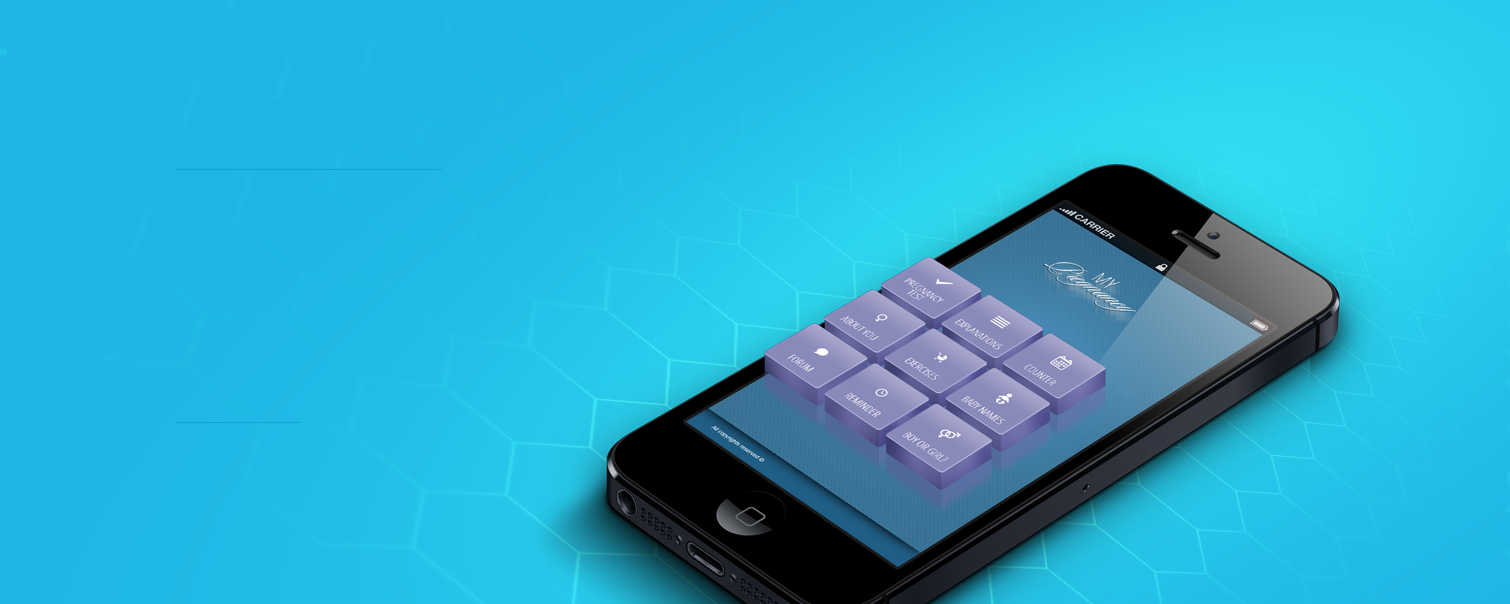
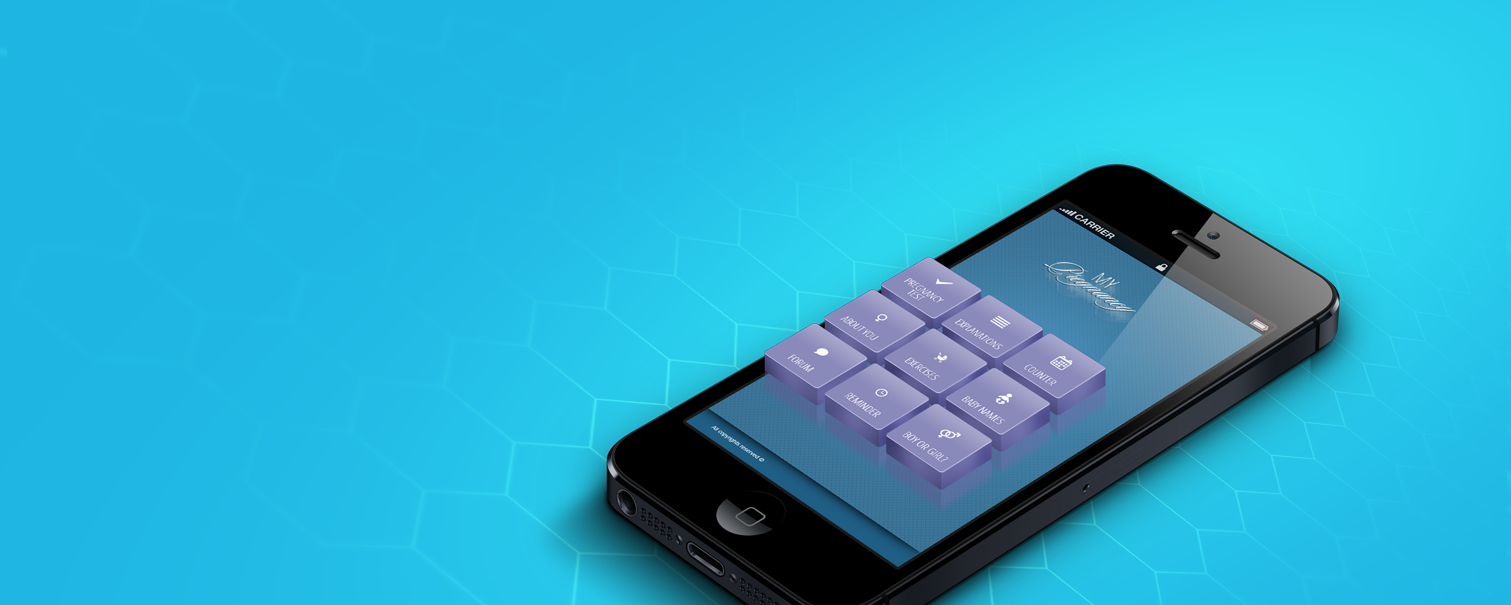
details

diff --git a/index.html b/index.html
@@ -18,12 +18,12 @@
         <nav>
             <div class="nav">
                 <div class="row">
-                    <div class="col-sm-2 col-md-3">
+                    <div class="col-sm-2 col-md-3 adjust">
                     	<div class="logo">
                         	<a href="#"><span>NET</span>VARIANT</a>
                         </div>
                     </div>
-                    <div class="col-sm-7 col-md-6 end-md">
+                    <div class="col-sm-7 col-md-6 end-md adjust">
                         <ul class="nav__item nav__item--text">
                             <li><a href="#">about us</a></li>
                             <li><a href="#">careers</a></li>
@@ -32,7 +32,7 @@
                             <li><a href="#">contact us</a></li>
                         </ul>
                     </div>
-                    <div class="col-sm-3 col-md-3 end-md">
+                    <div class="col-sm-3 col-md-3 end-md adjust">
                         <ul class="nav__item nav__item--icon">
                             <li><a href="#"><i class="icon-user icon"></i></a></li>
                             <li><a href="#"><i class="icon-earth icon"></i></a></li>
@@ -58,7 +58,7 @@
             <div class="container">
                 <div class="row">
                     <div class="col-md-12 slider--descrip">
-                        <h1>Lorem ipsum dolor sit amet, consectetur adipiscing elit.</h1>
+                        <h1>Lorem ipsum dolor sit<br>amet, consectetur<br> adipiscing elit.</h1>
                     </div>
                 </div>
             </div>
@@ -85,17 +85,17 @@
     <section class="service gray">
         <div class="container">
             <div class="row">
-                <div class="col-md-12 service__header">
+                <div class="col-sm-12 col-md-12 service__header">
                     <p>netvariant</p>
                     <h2>Our services</h2>
                 </div>
-                <div class="col-md-6 service__descrip start-md">
+                <div class="col-sm-6 col-md-6 service__descrip start-md">
                     <p>We are a full-cycle custom software and software product development service provider, and supports you at any stage of your product evolution – from a mere idea and proto- types to delivered or exist product support and maintenance. From smart customization</p>
                 </div>
-                <div class="col-md-6 service__descrip end-md">
+                <div class="col-sm-6 col-md-6 service__descrip end-md">
                     <p>of the pre-developed platforms or products to full-cycle custom software development and product development along the client’s vision, we are an experienced development partner to deliver cost-effective and reliable custom software solutions that match your unique requirements.</p>
                 </div>
-                <div class="col-md-3 service__ad">
+                <div class="col-sm-6 col-md-3 service__ad">
             		<div class="service__ad--logo">
                 		<img src="img/desktop.png" alt="desktop icon">
                 	</div>
@@ -103,7 +103,7 @@
                 		<h4>Web Development</h4>
                 	</div>
                 </div>
-                <div class="col-md-3 service__ad">
+                <div class="col-sm-6 col-md-3 service__ad">
 			        <div class="service__ad--logo">
 			            <img src="img/settings.png" alt="settings icon">
 			        </div>
@@ -111,7 +111,7 @@
 		        		<h4>Software Development</h4>
 		        	</div>
 				</div>
-                <div class="col-md-3 service__ad">
+                <div class="col-sm-6 col-md-3 service__ad">
             		<div class="service__ad--logo">
                 		<img src="img/mobile.png" alt="mobile icon">
                 	</div>
@@ -119,7 +119,7 @@
                 		<h4>Application Development</h4>
                 	</div>
                 </div>
-                <div class="col-md-3 service__ad">
+                <div class="col-sm-6 col-md-3 service__ad">
             		<div class="service__ad--logo">
                 		<img src="img/cloud.png" alt="cloud icon">
                 	</div>
@@ -127,7 +127,7 @@
                 		<h4>IT Consultation</h4>
                 	</div>
                 </div>
-                <div class="col-md-12">
+                <div class="col-sm-12 col-md-12">
                 	<div class="trapeze">
                 		<p class="trapeze--text">read more</p>
                 		<div class="trapeze--shadow"></div>
@@ -141,11 +141,11 @@
     <section class="product blue">
     	<div class="container">
     		<div class="row">
-    			 <div class="col-md-12 service__header">
+    			 <div class="col-sm-12 col-md-12 product__header">
                     <p>netvariant</p>
                     <h2>Our products</h2>
                 </div>
-                <div class="col-md-4 box">
+                <div class="col-sm-6 col-md-4 box">
             		<div class="box__image">
             			<img src="img/hexagon.png" alt="net variant messanger logo">
             			<img class="img-shadow" src="img/hexagon.png" alt="logo shadow">
@@ -161,7 +161,7 @@
             			</div>
             		</div>
                 </div>
-                <div class="col-md-4 box">
+                <div class="col-sm-6 col-md-4 box">
             		<div class="box__image">
             			<img src="img/hexagon2.png" alt="net variant selfcare logo">
             			<img class="img-shadow" src="img/hexagon.png" alt="logo shadow">
@@ -177,7 +177,7 @@
             			</div>
             		</div>
                 </div>
-                <div class="col-md-4 box">
+                <div class="col-sm-6 col-md-4 box">
             		<div class="box__image">
             			<img src="img/hexagon3.png" alt="net variant banker logo">
             			<img class="img-shadow" src="img/hexagon.png" alt="logo shadow">
@@ -193,7 +193,7 @@
             			</div>
             		</div>
                 </div>
-                <div class="col-md-12">
+                <div class="col-sm-12 col-md-12">
                 	<div class="trapeze">
                 		<p class="trapeze--text">read more</p>
                 		<div class="trapeze--shadow"></div>
@@ -203,12 +203,11 @@
     	</div>
     </section>
     <section class="careers">
-    	
     </section>
     <section class="info-content">
     	<div class="container">
     		<div class="row">
-    			<div class="col-md-9 info-content--adjust">
+    			<div class="col-sm-7 col-md-9 info-content--adjust">
     				<div class="info-content__box">
     					<div class="info-content__box--header">
 	    					<a href="#">about us</a>
@@ -294,7 +293,7 @@
 	    				</div>
     				</div>
     			</div>
-    			<div class="col-md-3 info-content--adjust">
+    			<div class="col-sm-5 col-md-3 info-content--adjust">
     				<div class="info-content__box--contact">
     					<div class="contact-item">
 	    					<h4>Contact us</h4>

diff --git a/css/style.css b/css/style.css
@@ -56,10 +56,16 @@ body {
 .row{
 	margin: 0;
 }
+.adjust{
+	padding: 0;
+}
 .nav,
 .info-content{
 	background-color: #272b2f;
 	position: relative;
+}
+.nav{
+	width: 100%;
 }
 .gray{
 	background-color: #f0f2f4;
@@ -118,6 +124,7 @@ h4{
 .nav,
 .nav-lower,
 .service__header p,
+.product__header p,
 .trapeze--text,
 .box__text--title p,
 .info-content__box--header a{
@@ -129,6 +136,7 @@ h4{
 .nav__item a,
 .nav-lower__item a,
 .service__header p,
+.product__header p,
 .trapeze--text,
 .box__text--title p{
 	font-family: 'karbon-bold';
@@ -272,7 +280,7 @@ color: #b9c0c6;
 }
 @media screen and (max-width: 1370px){
 	.nav__item--text{margin: 26px 0 0 -50px}
-	.nav__item--text li{padding: 0 10px}
+	.nav__item--text li{padding: 0 20px}
 }
 .nav__item--text li:nth-child(1),
 .nav-lower__item li:nth-child(1){
@@ -280,7 +288,6 @@ color: #b9c0c6;
 }
 .nav__item--icon{
 	position: relative;
-	margin-right: -16px;
 }
 .nav__item--icon li{
 	text-align: center;
@@ -360,8 +367,25 @@ color: #b9c0c6;
 }
 .slider--descrip{
 	position: absolute;
-	top: 150px;
-	padding: 0 700px 0 0;
+	top: 23%;
+}
+.slider--descrip h1{
+	position: relative;
+}
+.slider--descrip h1::before,
+.slider--descrip h1::after{
+	content: '';
+	position: absolute;
+	top: -11%;
+	height: 1px;
+	width: 275px;
+	z-index: 100;
+	background-color: #169bc4;
+}
+.slider--descrip h1::after{
+	top: 124%;
+	left: 0;
+	width: 130px;
 }
 .pentagon{
 	-webkit-transform: rotate(270deg);
@@ -472,8 +496,9 @@ color: #b9c0c6;
 /*---------------SERVICE*/
 
 .service__header,
+.product__header,
 .service__descrip{
-	padding: 53px 0 0;
+	padding-top: 53px;
 }
 .start-md p{
 	padding-right: 20px;
@@ -605,7 +630,7 @@ color: #b9c0c6;
 	vertical-align: top;
 }
 .info-content--adjust{
-	padding: 0;
+	padding-right: 0;
 	margin-top: 60px;
 	border-bottom: 1px solid #3a3f44;
 }
@@ -651,6 +676,10 @@ color: #b9c0c6;
 .contact-map{
 	display: flex;
 	align-items: flex-end
+}
+iframe{
+	width: 100%;
+	max-width: 100%;
 }
 
 
